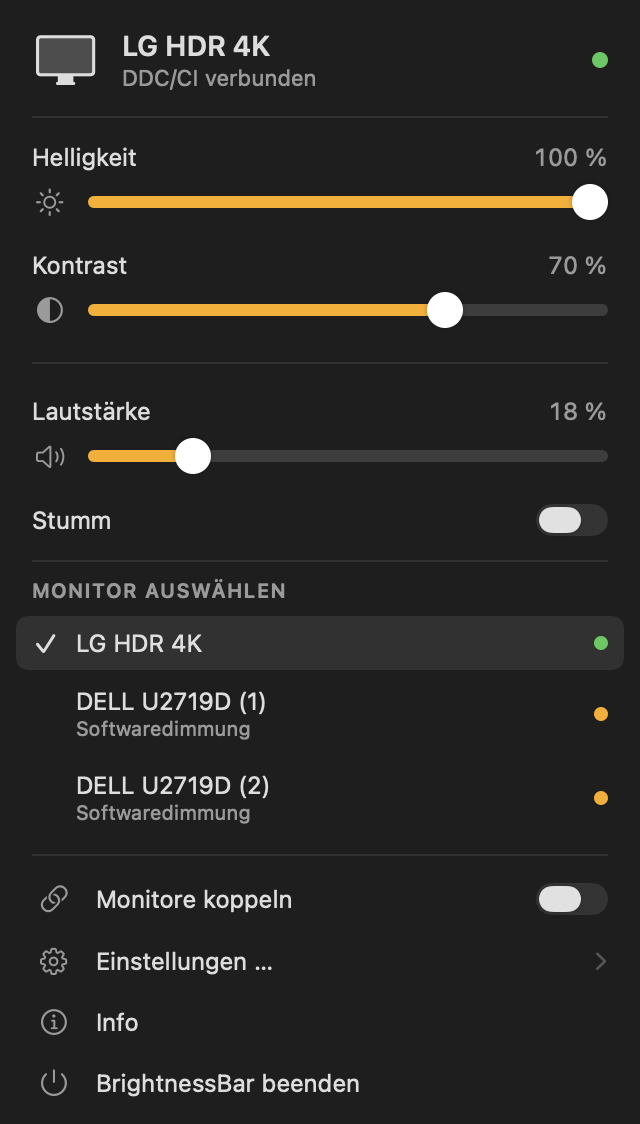
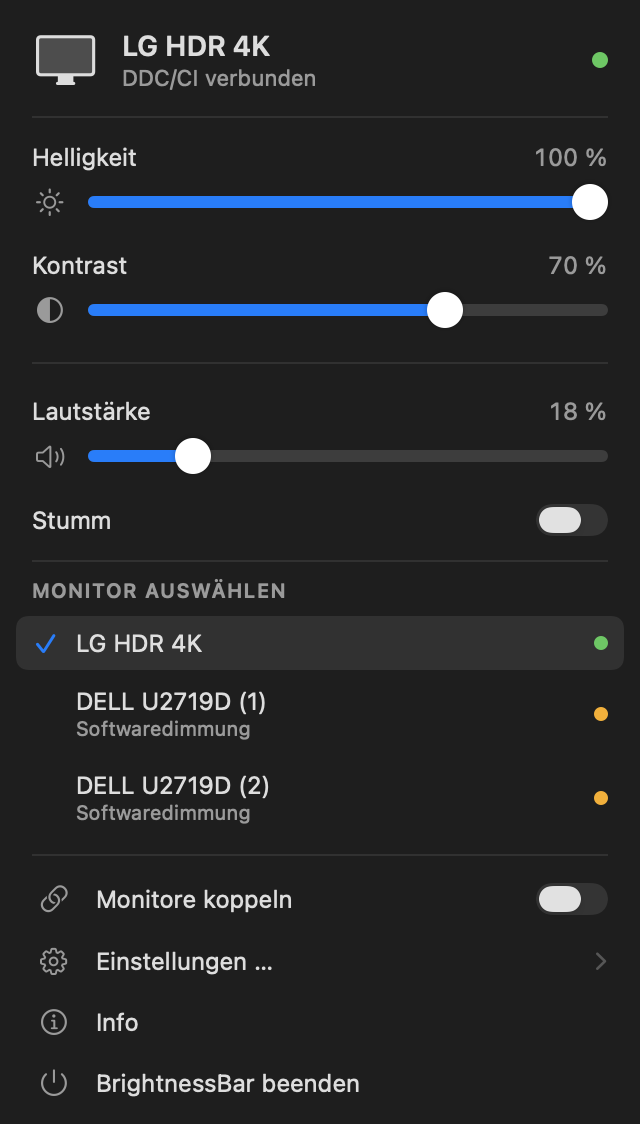
Akzentfarbe wählbar machen, Statusfarben davon trennen
Die Regler standen fest auf dem Bernstein des App-Symbols. Jetzt sind zehn
Vorgaben und eine freie Farbwahl in den Einstellungen hinterlegt, voreingestellt
die Akzentfarbe des Systems.

Bewusst nicht mitgeändert werden die Statuspunkte: grün heißt Backlight über
DDC/CI, gelb Softwaredimmung, rot nicht steuerbar. Wären sie frei einfärbbar,
verlören sie ihre Aussage. Dasselbe gilt für den Warnhinweis zur fehlenden
Tastenfreigabe.

diff --git a/Sources/SettingsWindow.swift b/Sources/SettingsWindow.swift
@@ -40,6 +40,7 @@ struct SettingsView: View {
     @State private var mediaKeysActive = MediaKeyTap.shared.isRunning
     @State private var launchAtLogin = LoginItem.isEnabled
     @State private var showInDock = DockVisibility.isEnabled
+    @ObservedObject private var appearance = Appearance.shared
 
     var body: some View {
         VStack(alignment: .leading, spacing: 22) {
@@ -52,6 +53,10 @@ struct SettingsView: View {
                 .onChange(of: softwareDimming) { _, newValue in
                     controller.softwareDimming = newValue
                 }
+            }
+
+            section("Farbe") {
+                accentPicker
             }
 
             section("Tastatur") {
@@ -74,7 +79,7 @@ struct SettingsView: View {
                 if mediaKeys {
                     HStack(spacing: 7) {
                         Circle()
-                            .fill(mediaKeysActive ? Color(red: 0.30, green: 0.80, blue: 0.36) : Theme.accent)
+                            .fill(mediaKeysActive ? Theme.ok : Theme.warning)
                             .frame(width: 7, height: 7)
                         Text(mediaKeysActive ? "Tasten sind aktiv" : "Berechtigung fehlt")
                             .font(.system(size: 11))
@@ -114,6 +119,64 @@ struct SettingsView: View {
         }
         .padding(24)
         .frame(width: 460)
+    }
+
+    private var accentPicker: some View {
+        VStack(alignment: .leading, spacing: 9) {
+            HStack(spacing: 9) {
+                ForEach(Appearance.presets, id: \.token) { preset in
+                    swatch(token: preset.token, name: preset.name)
+                }
+            }
+
+            HStack(spacing: 10) {
+                ColorPicker("Eigene Farbe", selection: Binding(
+                    get: { appearance.accent },
+                    set: { appearance.selection = $0.hexString }
+                ), supportsOpacity: false)
+                .labelsHidden()
+                Text("Eigene Farbe …")
+                    .font(.system(size: 12))
+                Spacer()
+                Text(appearance.selection == Appearance.systemToken
+                     ? "Folgt der Systemfarbe"
+                     : appearance.selection.uppercased())
+                    .font(.system(size: 11, design: .monospaced))
+                    .foregroundStyle(.secondary)
+            }
+
+            Text("Gilt für die Regler und die Auswahl. Die Statuspunkte behalten ihre Farben — grün, gelb und rot bedeuten dort etwas.")
+                .font(.system(size: 11))
+                .foregroundStyle(.secondary)
+                .fixedSize(horizontal: false, vertical: true)
+        }
+    }
+
+    private func swatch(token: String, name: String) -> some View {
+        let isSelected = appearance.selection == token
+        return Button {
+            appearance.selection = token
+        } label: {
+            ZStack {
+                Circle()
+                    .fill(Appearance.color(for: token))
+                    .frame(width: 20, height: 20)
+                if token == Appearance.systemToken {
+                    Image(systemName: "sparkles")
+                        .font(.system(size: 9, weight: .bold))
+                        .foregroundStyle(.white.opacity(0.9))
+                }
+                if isSelected {
+                    Circle()
+                        .stroke(Color.primary.opacity(0.55), lineWidth: 2)
+                        .frame(width: 26, height: 26)
+                }
+            }
+            .frame(width: 28, height: 28)
+            .contentShape(Circle())
+        }
+        .buttonStyle(.plain)
+        .help(name)
     }
 
     // MARK: Pieces

diff --git a/Sources/MenuUI.swift b/Sources/MenuUI.swift
@@ -4,8 +4,12 @@ import AppKit
 // MARK: - Shared look
 
 enum Theme {
-    /// Taken from the app icon, so menu and icon read as one thing.
-    static let accent = Color(red: 0.98, green: 0.68, blue: 0.13)
+    /// Fixed on purpose: this amber means "attention", not "accent". It keeps its meaning
+    /// even when the user repaints the accent colour.
+    static let warning = Color(red: 0.98, green: 0.68, blue: 0.13)
+    static let ok = Color(red: 0.30, green: 0.80, blue: 0.36)
+    static let bad = Color(red: 0.85, green: 0.30, blue: 0.28)
+
     static let rowIconWidth: CGFloat = 22
     static let width: CGFloat = 320
 }
@@ -13,9 +17,9 @@ enum Theme {
 extension ManagedDisplay.Health {
     var color: Color {
         switch self {
-        case .good: return Color(red: 0.30, green: 0.80, blue: 0.36)
-        case .partial: return Theme.accent
-        case .none: return Color(red: 0.85, green: 0.30, blue: 0.28)
+        case .good: return Theme.ok
+        case .partial: return Theme.warning
+        case .none: return Theme.bad
         }
     }
 }
@@ -116,7 +120,7 @@ struct MenuContent: View {
             }
 
             if MediaKeyTap.isEnabled, !mediaKeysActive {
-                ActionRow(icon: "exclamationmark.triangle", title: "Tastenfreigabe fehlt", tint: Theme.accent) {
+                ActionRow(icon: "exclamationmark.triangle", title: "Tastenfreigabe fehlt", tint: Theme.warning) {
                     EmptyView()
                 }
                 .onTapGesture { MediaKeyTap.openAccessibilitySettings() }
@@ -303,6 +307,8 @@ struct TintedSlider: View {
     let range: ClosedRange<Double>
     var isEnabled: Bool = true
 
+    @ObservedObject private var appearance = Appearance.shared
+
     private let trackHeight: CGFloat = 6
     private let knobSize: CGFloat = 18
 
@@ -319,7 +325,7 @@ struct TintedSlider: View {
                     .frame(height: trackHeight)
 
                 Capsule()
-                    .fill(isEnabled ? Theme.accent : Color.secondary.opacity(0.4))
+                    .fill(isEnabled ? appearance.accent : Color.secondary.opacity(0.4))
                     .frame(width: max(knobCenter, trackHeight), height: trackHeight)
 
                 Circle()
@@ -359,6 +365,7 @@ struct TintedSlider: View {
 
 struct MonitorRow: View {
 
+    @ObservedObject private var appearance = Appearance.shared
     @ObservedObject var display: ManagedDisplay
     let isSelected: Bool
     let action: () -> Void
@@ -368,6 +375,7 @@ struct MonitorRow: View {
             HStack(spacing: 8) {
                 Image(systemName: "checkmark")
                     .font(.system(size: 11, weight: .semibold))
+                    .foregroundStyle(appearance.accent)
                     .frame(width: 14)
                     .opacity(isSelected ? 1 : 0)
 

diff --git a/Sources/Appearance.swift b/Sources/Appearance.swift
@@ -1,0 +1,74 @@
+import SwiftUI
+import AppKit
+
+// MARK: - Accent colour
+//
+// Only the interactive parts follow this: sliders and the selected row. Status colours stay
+// fixed, because a green dot that means "works" and an amber one that means "only the image
+// is being dimmed" would lose their meaning if the user could repaint them.
+
+@MainActor
+final class Appearance: ObservableObject {
+
+    static let shared = Appearance()
+
+    private static let defaultsKey = "accentColor"
+
+    /// Either `system` — follow the macOS accent colour — or a stored hex value.
+    @Published var selection: String {
+        didSet { UserDefaults.standard.set(selection, forKey: Self.defaultsKey) }
+    }
+
+    private init() {
+        self.selection = UserDefaults.standard.string(forKey: Self.defaultsKey) ?? Appearance.systemToken
+    }
+
+    static let systemToken = "system"
+
+    var accent: Color {
+        if selection == Self.systemToken { return Color(nsColor: .controlAccentColor) }
+        return Color(hex: selection) ?? Color(nsColor: .controlAccentColor)
+    }
+
+    /// Shown in the settings picker, in the order they appear there.
+    static let presets: [(name: String, token: String)] = [
+        ("Systemfarbe", systemToken),
+        ("Blau", "#0A84FF"),
+        ("Türkis", "#40C8E0"),
+        ("Grün", "#30D158"),
+        ("Bernstein", "#FAAD21"),
+        ("Orange", "#FF9F0A"),
+        ("Rot", "#FF453A"),
+        ("Pink", "#FF375F"),
+        ("Violett", "#BF5AF2"),
+        ("Grafit", "#98989D"),
+    ]
+
+    static func color(for token: String) -> Color {
+        token == systemToken ? Color(nsColor: .controlAccentColor) : (Color(hex: token) ?? .gray)
+    }
+}
+
+extension Color {
+
+    /// Accepts "#RRGGBB". Returns nil for anything else, so a corrupted preference falls back
+    /// rather than crashing.
+    init?(hex: String) {
+        var text = hex.trimmingCharacters(in: .whitespaces)
+        if text.hasPrefix("#") { text.removeFirst() }
+        guard text.count == 6, let value = UInt32(text, radix: 16) else { return nil }
+        self.init(
+            red: Double((value >> 16) & 0xFF) / 255,
+            green: Double((value >> 8) & 0xFF) / 255,
+            blue: Double(value & 0xFF) / 255
+        )
+    }
+
+    var hexString: String {
+        let ns = NSColor(self).usingColorSpace(.sRGB) ?? .gray
+        return String(format: "#%02X%02X%02X",
+                      Int((ns.redComponent * 255).rounded()),
+                      Int((ns.greenComponent * 255).rounded()),
+                      Int((ns.blueComponent * 255).rounded()))
+    }
+}

diff --git a/README.md b/README.md
@@ -75,7 +75,10 @@ im Detail; darunter lässt sich zwischen den angeschlossenen wechseln. Der Punkt
 Namen sagt, wie er angesteuert wird — grün heißt Backlight über DDC/CI, gelb heißt
 Softwaredimmung, rot heißt gar nicht steuerbar.
 
-Alle Schalter und eine Erklärung der Tastenkürzel stehen unter *Einstellungen …*.
+Alle Schalter und eine Erklärung der Tastenkürzel stehen unter *Einstellungen …*. Dort lässt
+sich auch die **Farbe der Regler** wählen — zehn Vorgaben oder eine eigene; voreingestellt
+ist die Akzentfarbe des Systems. Die Statuspunkte bleiben davon unberührt, weil grün, gelb
+und rot dort eine Bedeutung tragen.
 
 | Kürzel | Wirkung |
 |---|---|
@@ -238,6 +241,7 @@ macOS die Tabelle dabei verwirft.
 | `Sources/Hotkeys.swift` | globale Kurzbefehle (Carbon), LaunchAgent |
 | `Sources/MediaKeys.swift` | Event-Tap für die Helligkeits- und Lautstärketasten |
 | `Sources/MenuUI.swift` | SwiftUI-Menü, Monitorauswahl, eigener Regler |
+| `Sources/Appearance.swift` | wählbare Akzentfarbe, getrennt von den Statusfarben |
 | `Sources/SettingsWindow.swift` | Einstellungsfenster samt Erklärung der Kurzbefehle |
 | `Sources/AboutWindow.swift` | Info-Fenster und App-Metadaten |
 | `Sources/DockVisibility.swift` | Dock-Symbol ein- und ausschalten |
